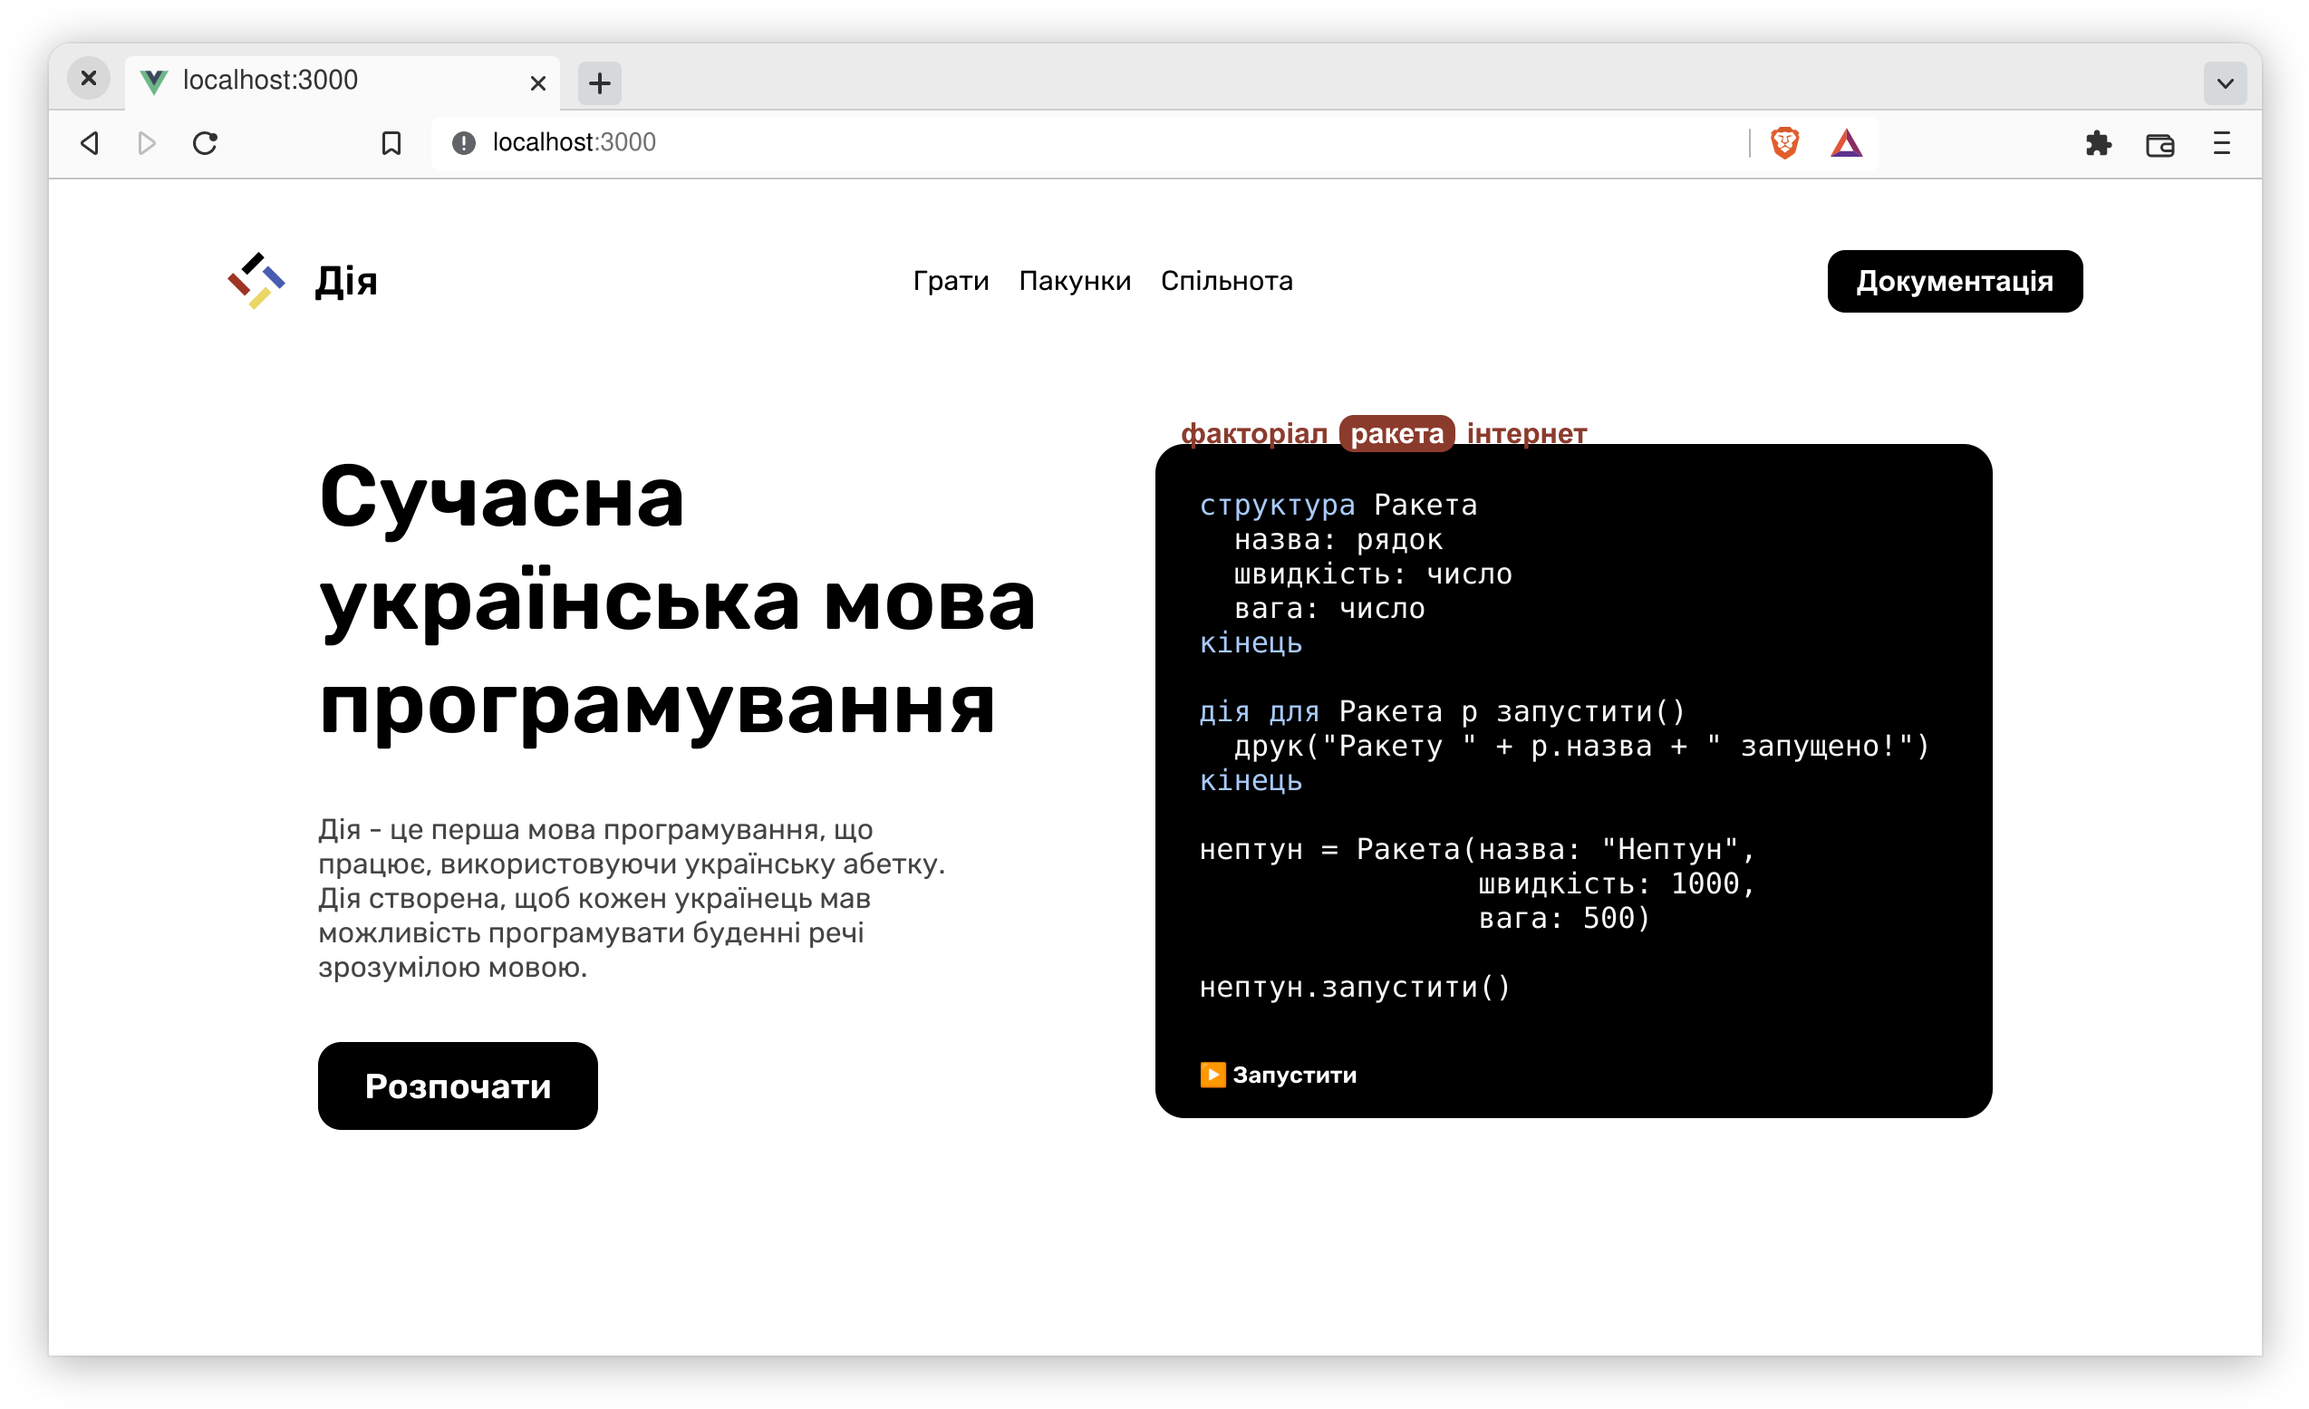
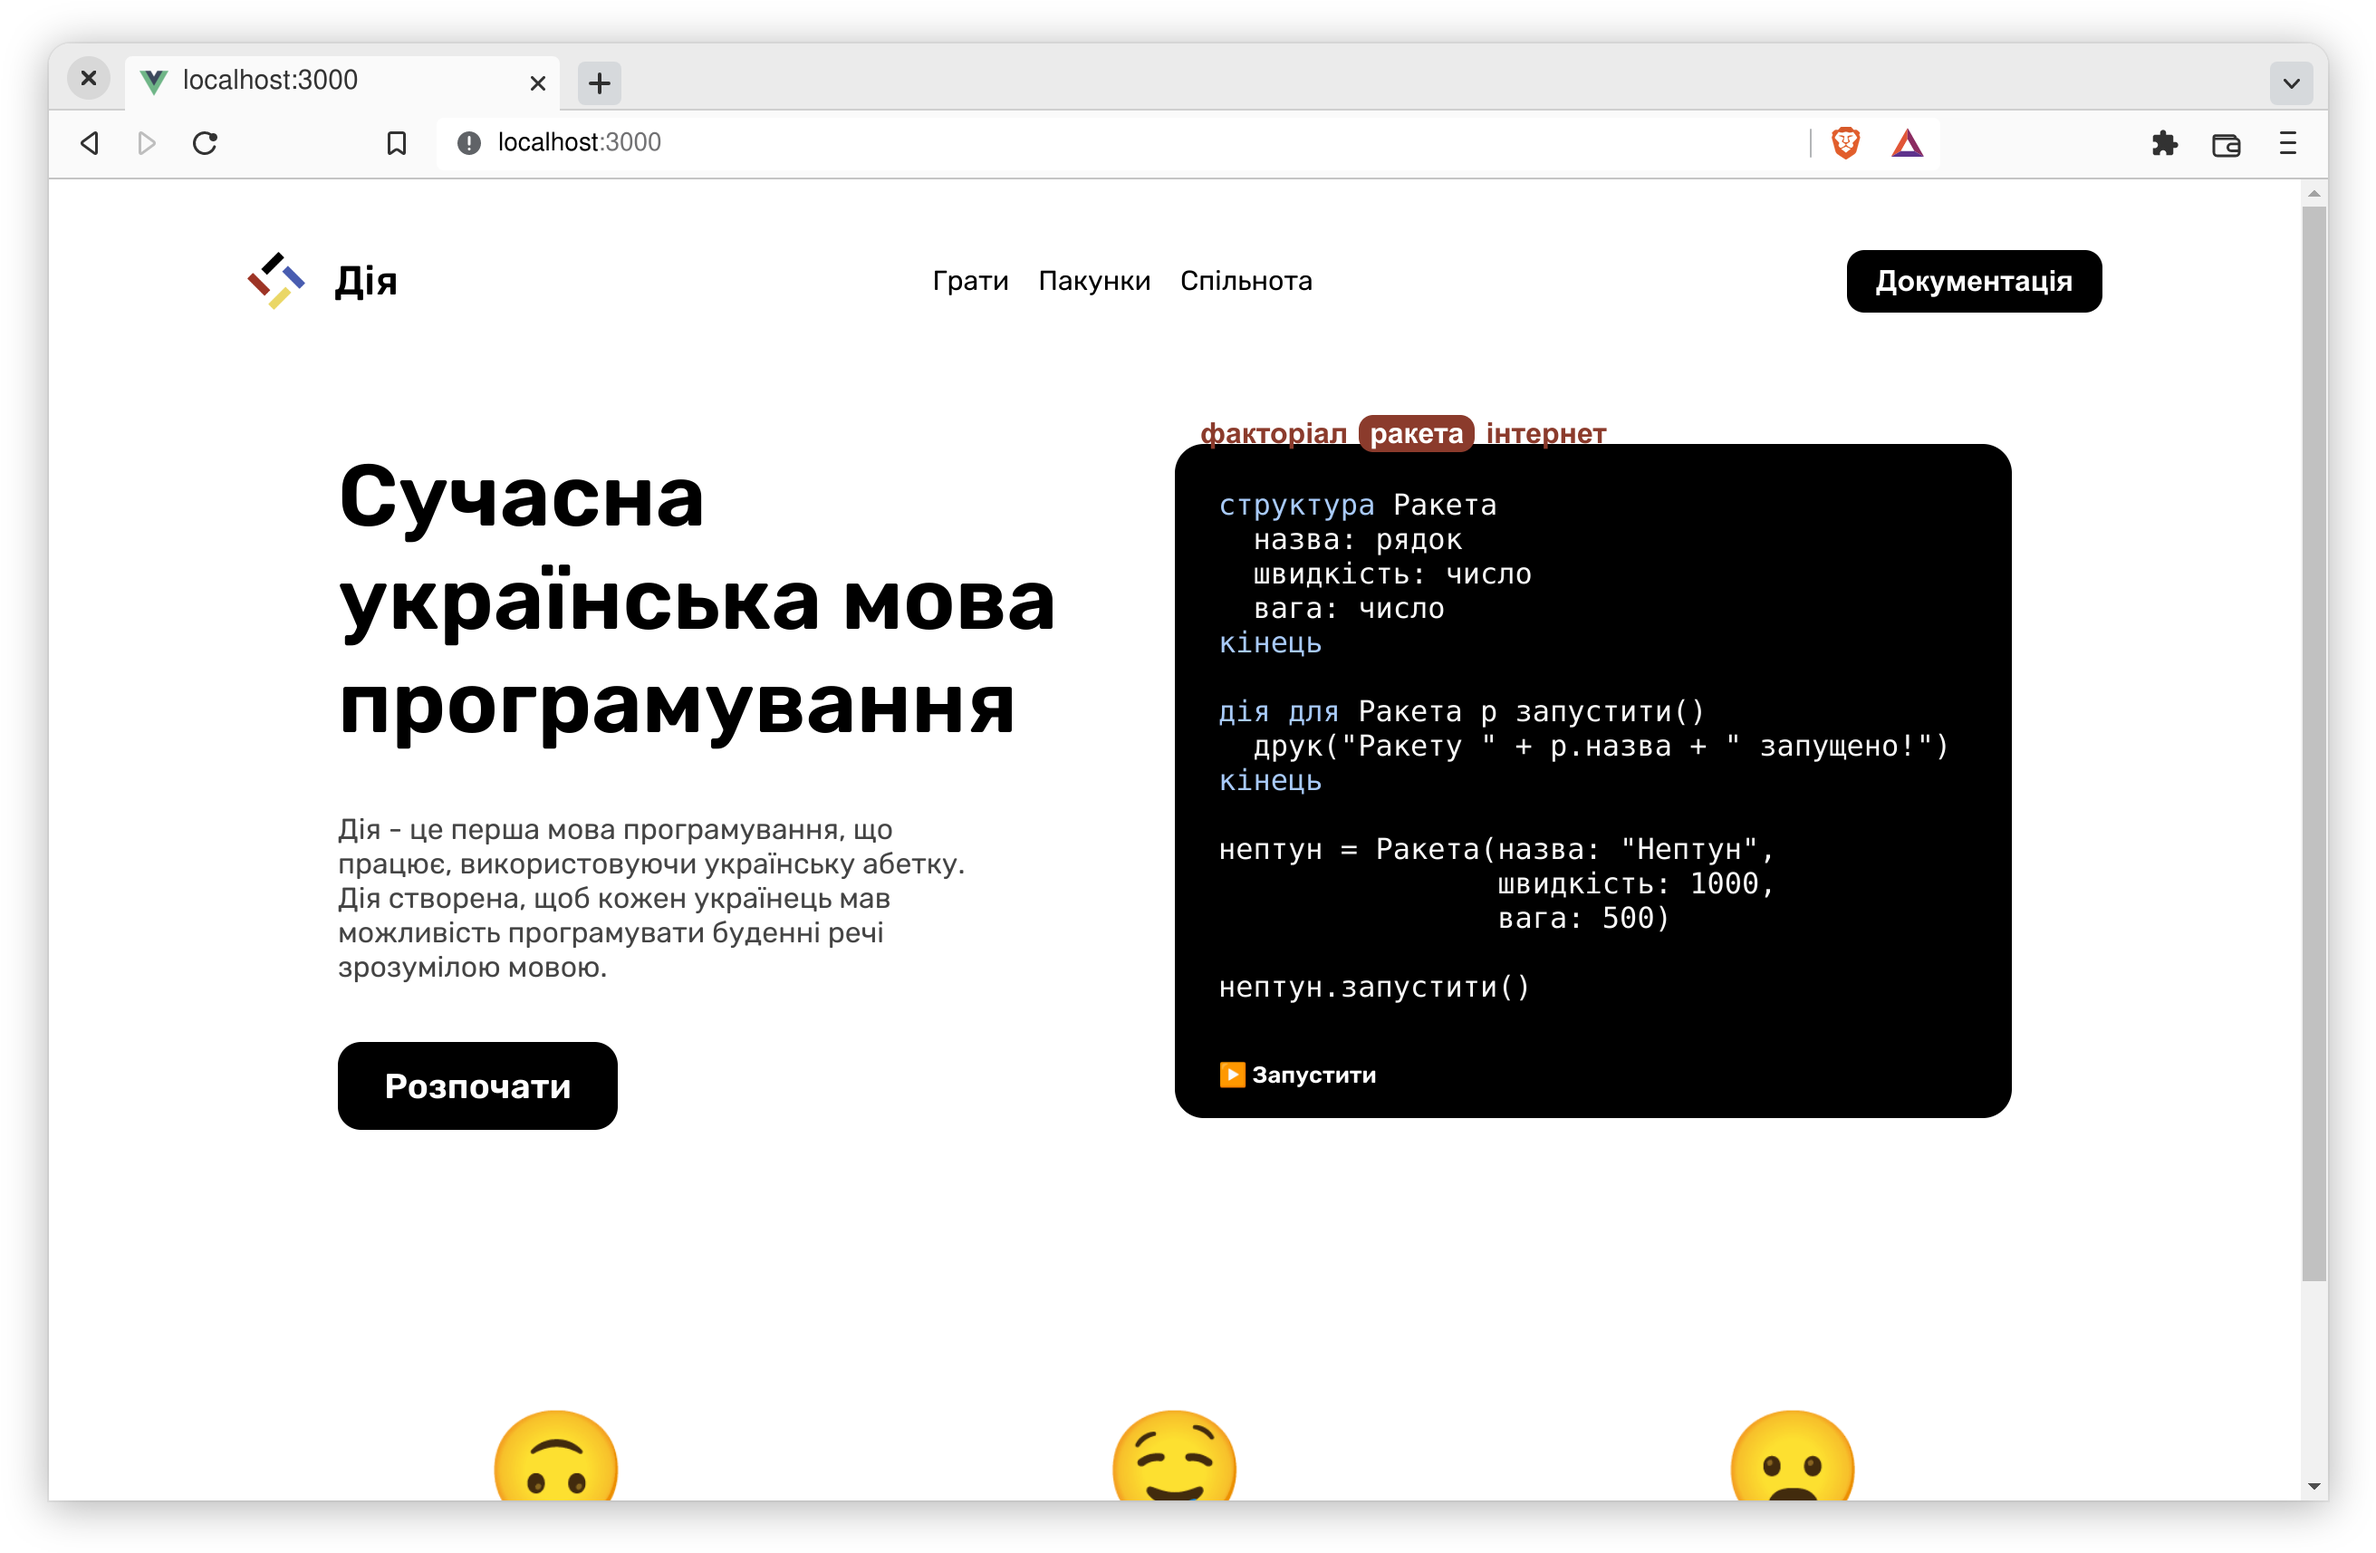
wip

diff --git a/components/section/Features.vue b/components/section/Features.vue
@@ -1,0 +1,65 @@
+<template>
+  <section class="features">
+    <div class="feature">
+      <div class="feature-icon">
+        🙃
+      </div>
+      <div class="feature-name">
+        Проста
+      </div>
+      <div class="feature-description">
+        Lorem ipsum dolor sit amet, consectetur adipisicing elit. Magni, repudiandae?
+      </div>
+    </div>
+    <div class="feature">
+      <div class="feature-icon">
+        🤤
+      </div>
+      <div class="feature-name">
+        Швидка
+      </div>
+      <div class="feature-description">
+        Lorem ipsum dolor sit amet, consectetur adipisicing elit. Magni, repudiandae?
+      </div>
+    </div>
+    <div class="feature">
+      <div class="feature-icon">
+        😦
+      </div>
+      <div class="feature-name">
+        Потужна
+      </div>
+      <div class="feature-description">
+        Lorem ipsum dolor sit amet, consectetur adipisicing elit. Magni, repudiandae?
+      </div>
+    </div>
+  </section>
+</template>
+
+<style lang="scss">
+.features {
+  margin-top: 100px;
+
+  display: grid;
+  grid-template-columns: 1fr 1fr 1fr;
+}
+
+.feature {
+  text-align: center;
+}
+
+.feature-name {
+  margin-top: 1rem;
+  font-weight: 500;
+  font-size: 1.2rem;
+}
+
+.feature-description {
+  margin-top: 1rem;
+  color: #444444;
+}
+
+.feature-icon {
+  font-size: 4rem;
+}
+</style>

diff --git a/pages/index.vue b/pages/index.vue
@@ -1,4 +1,5 @@
 <template>
   <NavigationBar/>
   <SectionHero/>
+  <SectionFeatures/>
 </template>
